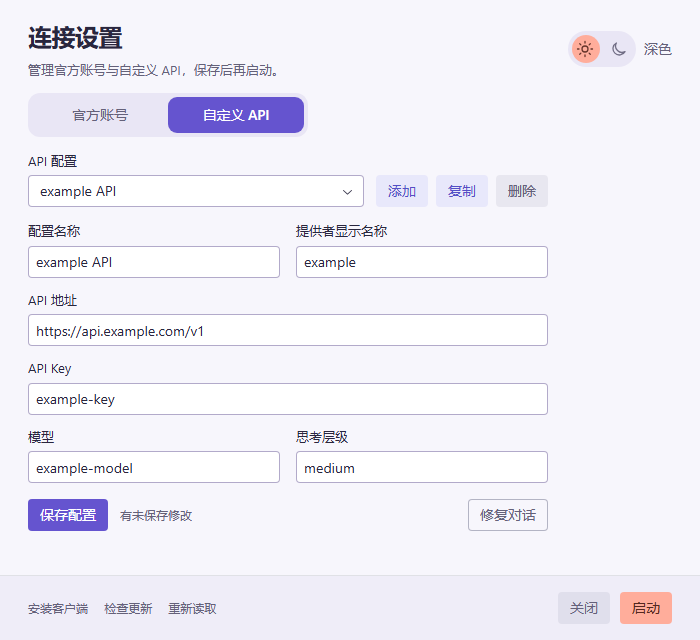
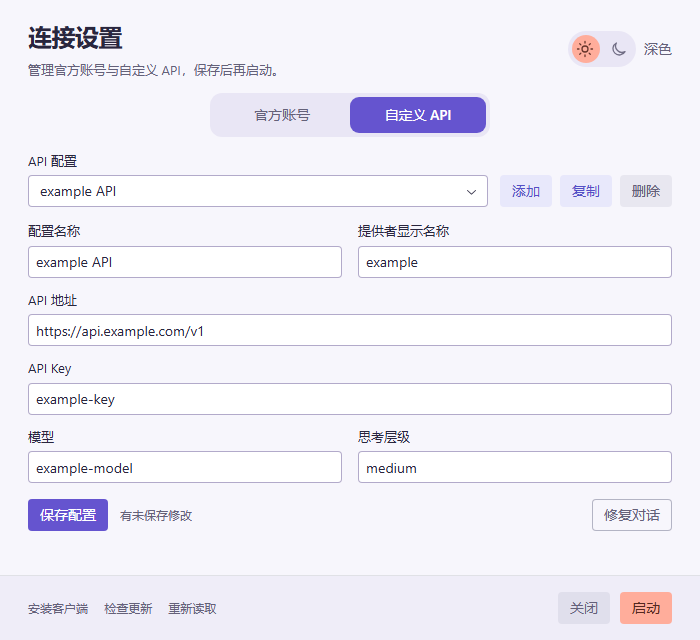
feat: 将设置表单改为居中流式栅格并验证宽窄窗口

diff --git a/ui/tests/settings.spec.ts b/ui/tests/settings.spec.ts
@@ -171,13 +171,16 @@ test("settings fit desktop, compact window and large text in both themes", async
       await page.keyboard.press("Space");
       await expect(page.getByRole("button", { name: "浅色", exact: true })).toBeVisible();
     }
-    for (const [width, height] of [[700, 640], [600, 580]]) {
+    for (const [width, height] of [[700, 640], [600, 580], [1000, 800]]) {
       await page.setViewportSize({ width, height });
       for (const mode of ["官方账号", "自定义 API"]) {
         await page.getByRole("tab", { name: mode, exact: true }).click();
         await expect(page.getByRole("tab", { name: mode, exact: true })).toHaveAttribute("aria-selected", "true");
         await expect(page.getByRole("button", { name: "保存配置", exact: true })).toBeVisible();
         expect(await page.evaluate(() => document.documentElement.scrollWidth <= innerWidth)).toBe(true);
+        const formBounds = await page.locator(".form").boundingBox();
+        expect(Math.round(formBounds!.width)).toBe(Math.min(width <= 650 ? width - 36 : width - 56, 720));
+        expect(Math.abs(formBounds!.x + formBounds!.width / 2 - width / 2)).toBeLessThan(1);
         if (height === 640)
           expect(await page.evaluate(() => document.documentElement.scrollHeight <= innerHeight)).toBe(true);
         await page.screenshot({

diff --git a/ui/src/style.css b/ui/src/style.css
@@ -89,6 +89,7 @@ input {
   background: var(--surface-track);
   box-shadow: none;
   overflow: visible;
+  margin-inline: auto;
 }
 .mode-switch::before {
   content: "";
@@ -171,8 +172,8 @@ input {
   color: var(--action-text);
 }
 .app {
-  /* 表单按可读行长定宽，不随窗口拉伸：短字段单列，长字段跨两列。 */
-  --form-width: 520px;
+  /* 表单随可用空间伸缩并限制最大行长：短字段单列，长字段跨两列。 */
+  --form-width: 720px;
   --column-gap: 16px;
   display: flex;
   flex-direction: column;
@@ -217,7 +218,8 @@ p {
   align-items: end;
   gap: 12px;
   margin-bottom: 14px;
-  max-width: var(--form-width);
+  width: min(100%, var(--form-width));
+  margin-inline: auto;
 }
 .profile-select {
   display: flex;
@@ -236,7 +238,8 @@ p {
   grid-template-columns: repeat(2, minmax(0, 1fr));
   gap: 12px var(--column-gap);
   align-items: start;
-  max-width: var(--form-width);
+  width: min(100%, var(--form-width));
+  margin-inline: auto;
 }
 .field {
   display: flex;
@@ -285,7 +288,8 @@ p {
   gap: 12px;
   align-items: center;
   margin-top: 16px;
-  max-width: var(--form-width);
+  width: min(100%, var(--form-width));
+  margin-inline: auto;
 }
 .save-row > span {
   color: var(--gray-11);

diff --git a/DESIGN.md b/DESIGN.md
@@ -63,7 +63,7 @@ spacing:
 
 窗口首次打开为 700 × 640，之后沿用上次退出时的尺寸、位置与最大化状态；最小尺寸为 600 × 580。页面最大宽度为 960px，居中且至少铺满窗口高度。标题、内容、底部动作按纵向排列，内容区域伸展，底部使用细分隔线。
 
-**The Measure Rule.** 表单宽度固定为 520px，不随窗口拉伸。表单是两列栅格：短值字段各占一列，API 地址与 API Key 跨两列，字段说明放在控件右侧的空列而不是另起一行，官方账号状态与配置名称同行。配置选择器与添加、复制、删除操作位于表单顶部，与表单同宽。
+**The Measure Rule.** 设置表单在内容区域水平居中，宽度使用 `min(100%, 720px)` 随窗口流式变化，不锁定为固定像素宽度。表单是两列栅格：短值字段各占一列，API 地址与 API Key 跨两列，字段说明放在控件右侧的空列而不是另起一行，官方账号状态与配置名称同行。配置选择器、添加、复制、删除和保存操作与表单同宽并保持居中。
 
 650px 及以下时，内容横向边距降为 18px，栅格改单列，说明文字回到控件下方，配置操作和底部动作允许换行。600px 是桌面窗口下限，不另造手机导航。
 
